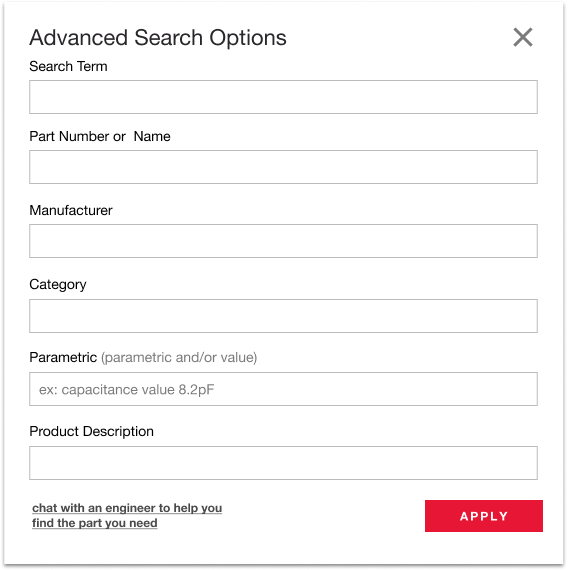
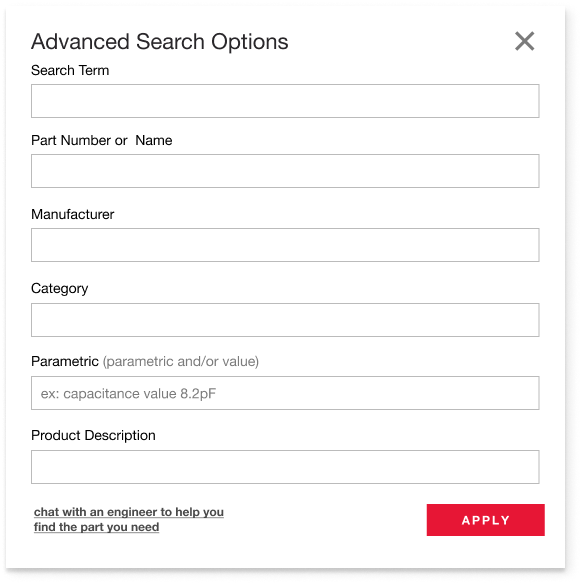
update to Search Image

diff --git a/AdvanceSearch.html b/AdvanceSearch.html
@@ -75,7 +75,7 @@
 	</div>
 
 	<div class="right-box">
-		<img style="border: 1px solid #dedede;" src="images/AdvancedSearch.png">
+		<img src="images/AdvanceSearch.png">
 	</div>
 	<div style="clear:both;"></div>
 </div>
